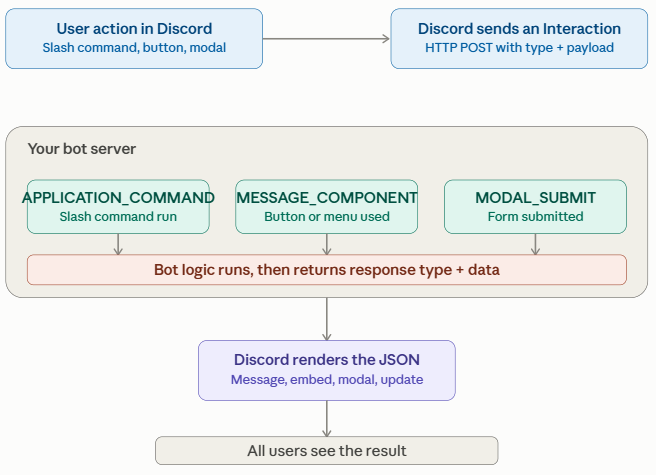
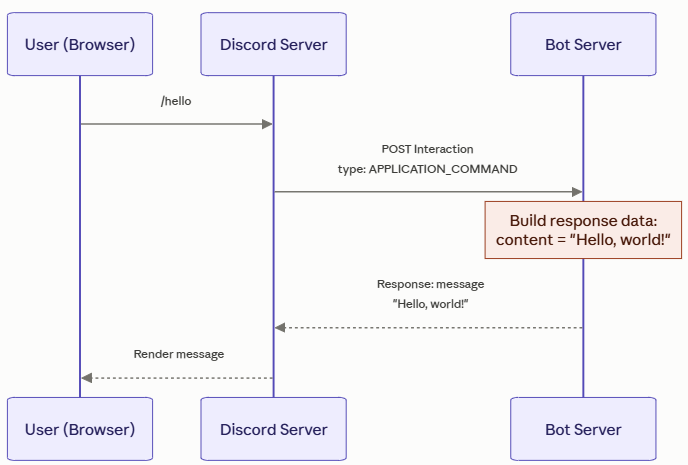
Task2 writeup

diff --git a/README-task2.md b/README-task2.md
@@ -3,13 +3,26 @@
 ## Overview
 You should have a very simple Discord bot working. Now you will explore the code found the in `commands` and `module-architecture` folders.  
 
-The goals are:  
+**Task:** 
+* Analyze the architecture and design of your Discord bot.  
+
+**Deliverables:**  
+* Two snapshots of the Work Items tracking work in the Kanban board.  
+* A set of **hand-drawn** diagrams of the architecture. Take a picture of the paper with the diagram. It must be hand-drawn on paper. Each person submits one of the of the following:  
+   - [Data flow diagram (DFD)](https://en.wikipedia.org/wiki/Data-flow_diagram)  
+   - [Activity diagram](https://en.wikipedia.org/wiki/Activity_diagram)  
+   - [Sequence diagram](https://en.wikipedia.org/wiki/Sequence_diagram) 
+   - [System context diagram](https://en.wikipedia.org/wiki/System_context_diagram)   
+   - [Network diagram](https://en.wikipedia.org/wiki/Computer_network_diagram) 
+
+
+**The goals are:**  
 * Understand Discord bot coding a bit better  
    - What are HTTP requests and responses  
    - What is an Express Server and how is it used in our implementation   
    - What is JSON and how does that play a role  
-* Move to a feature-based, modular organization with co-located command logic to make the bot more extensible  
-* Explain and correlate design terms to specific code  
+* Adopt a feature-based, modular organization with co-located command logic to make the bot more extensible  
+* Explain design terms and point to specific code that correlates  
 
 The bot has been be refactored from a monolithic interaction handler into a modular, feature-based architecture. With the changes, each slash command will encapsulate (or co-locate) its command definition, command handler, component handlers, modal handlers, and command-specific state or business logic in a dedicated module (file). Central dispatchers route incoming Discord interactions to the appropriate command module.
 
@@ -67,8 +80,9 @@ A Discord bot isn't really a program that "runs inside Discord." It's a separate
 
 ### Step 1: Something happens in Discord (the Interaction)
 
-A user does something interactive — types a slash command, clicks a button, picks from a dropdown, or submits a form (a "modal"). Discord packages that event as an **Interaction** and sends it as an HTTP POST request to your bot's server. That's where your `InteractionType` values come in:
+A user does something interactive such as typing in a slash command, clicking a button, picking from a dropdown, or submiting a form (a "modal"). Discord packages that event as an **Interaction** and sends it as an HTTP POST request to your bot's server. That's where your `InteractionType` values come in:
 
+**Interaction Types:**  
 - `APPLICATION_COMMAND` — someone ran a slash command (like `/roll dice`)
 - `MESSAGE_COMPONENT` — someone clicked a button or used a select menu attached to a message
 - `MODAL_SUBMIT` — someone filled out and submitted a popup form
@@ -79,16 +93,18 @@ Each of these arrives with a payload describing exactly what happened: which com
 
 This is the actual "coding" part. Your server reads the interaction type and any relevant IDs (like a `custom_id` on a button) and runs whatever logic you wrote — roll a die, look something up in a database, start a game, whatever.
 
-### Step 3: Your bot responds — but the response *is* the UI
+## Step 3: Your bot responds — with instructions for what to display
 
-Here's the part that trips people up: your HTTP response isn't just "success/fail." It's a structured JSON object with a **response type** and **data**, and that JSON *is* the next thing users see in Discord. You're not writing a chat message like a person — you're returning a specification that Discord's client renders for you. Common response types include:
+Here's the part that trips people up: your HTTP response isn't just "success/fail." It's a structured JSON object made up of a **response type** and **data**. The user never sees this JSON directly. The JSON is effectively a set of instructions telling Discord's client *what to display and how*. Discord reads that object and renders the actual message, embed, or form on the user's screen.
+
+You're not writing a chat message the way a person would. You're describing, in a format Discord understands, what the outcome should look like. Discord's client is the one that turns your description into pixels and actions. Common response types include:
 
 - Reply with a message (text, embeds, buttons, etc.)
 - Show a modal (popup form)
 - Acknowledge silently and update later (useful for slow operations)
 - Update the existing message (e.g., after a button click)
 
-Discord takes that JSON, renders it according to its own UI rules, and every user in the channel sees the result — a message, buttons, an embed, whatever you specified.
+Once Discord receives that object, it renders it according to its own UI rules, and every user in the channel sees the resulting message, buttons, or embed<sup>[1]</sup> — never the underlying JSON itself.
 
 Here is a simple visual of that request/response cycle.  
 ![Discord overview](resources/discord_overview.png)
@@ -99,8 +115,88 @@ Here is a simple visual of that request/response cycle.
 Each interaction is its own HTTP request. There's no persistent "conversation" the way a chat feels — every button click or command is a fresh POST with everything the bot needs to know packed into the payload (who clicked, what they clicked, in what channel).
 
 **Timing matters**  
-Discord expects a response within 3 seconds, or it shows "This interaction failed." If the bot needs to do something slow (call an API, query a database), it first sends an "I got it, working on it" acknowledgment, then follows up with the real content once it's ready. This is an example of *acknowledge now, respond later*.
+Discord expects a response within 3 seconds, or it shows "This interaction failed." If the bot needs to do something slow (call slow API, query a distant database, generate a report), it first sends an "I got it, working on it" acknowledgment, then follows up with the real content once it's ready. This is an example of *acknowledge now, respond later*.
 
 **`custom_id` is how buttons/menus "remember" context**  
 Since HTTP requests don't carry memory, developers embed identifying info directly into a button's `custom_id` (e.g. `"delete_task_42"`) so that when it's clicked, the bot can parse that string back out and know exactly what to do. There is no database lookup required for simple cases.
+
+## Rock-Paper-Scissors Sequence
+To help explain 
+![Rock Paper Scissors Squence Diagram](resources/discord-rps-sequence.png)
+
+There are a few things worth explaining:
+
+**How does User #2's choice stay hidden from User #1?** This is the trickiest part of the game design. When User #2 clicks "Accept," the bot doesn't just reveal a text box — it typically responds with an **ephemeral**<sup>[2]</sup> message (a response only the clicking user can see) containing buttons or a dropdown for rock/paper/scissors. This is a meaningful Discord feature worth noting: response data can include a flag that makes a message private to just one user, which is exactly how you'd keep a "secret choice" secret in a public channel.
+
+**Why two separate interactions?** Notice the diagram has two full round trips — one for the initial slash command, one for the accept/choice. Each is its own independent HTTP request/response cycle. The bot has to persist the game state (who challenged, their hidden choice) somewhere between those two requests, since nothing carries over automatically. Servers can store temporary state (in memory, a database, or a cache) between interactions.<sup>[3]</sup>
+
+**The final update goes to *both* browsers from one bot response.** The bot doesn't send two separate messages. The bot sends one updated message object back to Discord Server, and Discord Server broadcasts that render to everyone viewing the channel, including both users. 
+
+## Footnotes
+[1] An **embed** is a richer, more structured message format in Discord — the kind you've probably seen without knowing the name: a box with a colored left border, maybe a title, a description, separate labeled fields, a thumbnail image, a footer, sometimes a big image at the bottom. Bot status messages, music "now playing" cards, and error notices with red borders are almost always embeds.
+
+Structurally, it's just another piece of data in that JSON response object — instead of (or alongside) plain text, you include an `embeds` array with fields like:
+
+```json
+{
+  "title": "Task Created",
+  "description": "Your task has been added to the board.",
+  "color": 3066993,
+  "fields": [
+    { "name": "Assigned to", "value": "@alice", "inline": true },
+    { "name": "Due date", "value": "Aug 15", "inline": true }
+  ],
+  "footer": { "text": "Task Bot" }
+}
+```
+
+Discord takes that structured data and lays it out visually as a formatted card. It's the same underlying idea as the response type/data pattern you already have in your notes — embeds are just one specific *shape* of data your bot can send, useful whenever you want something more organized-looking than a plain sentence of text.
+
+It is interesting to note that "data describing what to display" can range from a single line of text all the way up to a fairly complex visual layout, and Discord handles all the rendering either way.
+
+[2] **Ephemeral Message**:  
+An ephemeral message is a normal interaction response with one extra piece of data attached: a message **flag**. Instead of posting to the channel for everyone, it's rendered only in the view of the user who triggered the interaction, everyone else in the channel never sees it, and it doesn't persist in the channel's message history the way a regular message does.
+
+Technically, it works exactly like the response object we've been discussing; it has the same `type` and `data` structure except the `data` includes a `flags` field with the value 64 (the EPHEMERAL flag, expressed as 1 << 6). Discord's client reads that flag and decides to render the message privately instead of publicly.
+
+A few practical notes:
+
+- It's not encryption or a security boundary. An ephemeral flag is a *rendering instruction*. The bot server and Discord both technically have the data; it's just not displayed to other channel members.  
+- Ephemeral responses are commonly used for exactly the kind of thing in the Rock-Paper-Scissors example: letting one user privately pick an option (or see an error message) without leaking it to everyone else in the channel.  
+- If a bot defers its response first, that deferral can also be marked ephemeral. So even a "thinking…" placeholder can stay private if you want the whole interaction hidden from the start.  
+
+References:  
+[Receiving and Responding to Interactions](https://docs.discord.com/developers/interactions/receiving-and-responding)   
+Official Discord Developer documentation covering interaction response types and the EPHEMERAL message flag.
+
+[Command response methods](https://discordjs.guide/slash-commands/response-methods)  
+This Discord.js Guid shows how to send an ephemeral reply in code, with a before/after example of what users see.  
+
+[MessageFlags enum reference](https://discord-api-types.dev/api/discord-api-types-v10/enum/MessageFlags)  
+Full list of message flags, including Ephemeral and others like Loading and IsComponentsV2.
+
+[3] **Remembering stuff on a Server**  
+
+When we said the bot needs to "remember" something between interactions (like a pending Rock-Paper-Scissors challenge), we glossed over an important question:  
+
+> Remember it *where*?   
+
+The answer depends heavily on how the bot server is deployed, not just on the data itself.  
+
+Here is the takeaway worth stating explicitly:  
+> The "right" storage choice isn't a fact about the data — it's a fact about the deployment.  
+
+ The exact same "remember this pending game" requirement has a different correct answer depending on whether you're running a single bot process on your laptop (in-memory is fine) or a production bot scaled across multiple instances behind a load balancer (in-memory silently breaks, and you need shared storage). Here we present a good real-world example of how architecture constraints shape what would otherwise be a simple coding decision.  
+
+1. *In-memory (a variable or object in your running program)*:  
+The simplest option — fast, no setup, easy to reason about for a class project. But it only works if there's exactly one instance of your bot process running, and that process doesn't restart. Real-world bots are often deployed with multiple instances behind a load balancer for reliability and scale — and that breaks in-memory storage immediately, because the request that creates the challenge might land on Instance A, while the "accept" click later gets routed to Instance B, which has no idea the challenge exists.
+
+2. *Database (e.g. Postgres, MongoDB)*:  
+Durable and shared across every instance. Good for data that needs to survive a server restart or matters long-term (user stats, leaderboards, settings). The tradeoff is speed — a database round trip is slower than reading a local variable, and you're now managing schemas, connections, and persistence logic.
+
+3. *Cache (e.g. [Redis](https://en.wikipedia.org/wiki/Redis))*:  
+A middle ground: shared across instances like a database, but built for short-lived, fast-access data. Great fit for something like a pending game challenge where data only needs to live for a few minutes and doesn't need to survive forever. Many production Discord bots use Redis for exactly this kind of temporary interaction state.
+
+Here is a sketch of an architecture where there is load balancer across multiple server instances providing services for a single Discord Bot. These details change everything:  
+![Load Balancing Sketch](resources/discord_memory_arch.png)
 
